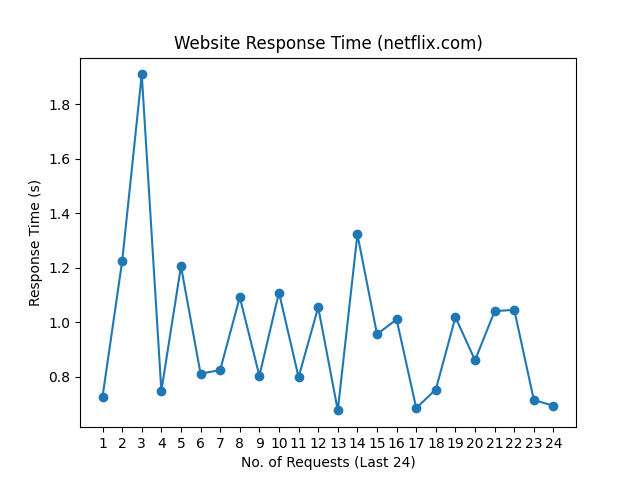
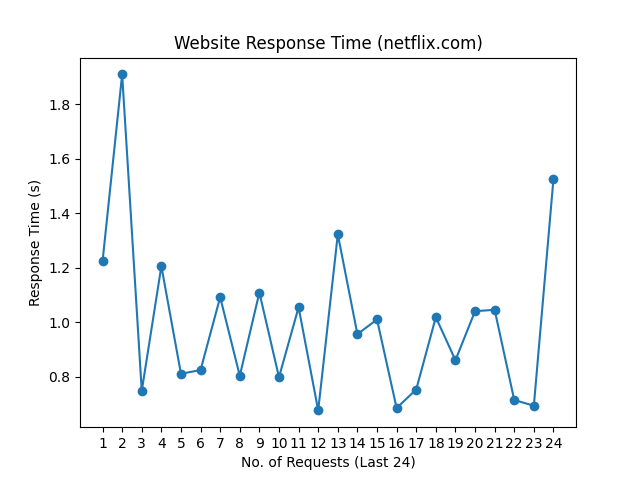
update README.md, history and graph

Changed region(s): [[0.1562, 0.125, 0.875, 0.875], [0.8438, 0.3438, 0.875, 0.6875]]

diff --git a/README.md b/README.md
@@ -1,10 +1,10 @@
 # Web Monitoring
 
-Last Checked: 24/01/2025 08:19
+Last Checked: 25/01/2025 08:19
 
 | Website | Response Time (s) | Status | Avg Uptime (%) |
 |---------|-------------------|--------|----------------|
 | www.thiswebsiteisdown.net | 0 <br> <img src="graph/thiswebsiteisdown.net.png" alt="Graph" width="200" height="200">  | ❌ Down | 0.00 |
-| www.netflix.com | 0.694526 <br> <img src="graph/netflix.com.png" alt="Graph" width="200" height="200">  | ✅ Up | 99.81 |
-| www.google.com | 0.207341 <br> <img src="graph/google.com.png" alt="Graph" width="200" height="200">  | ✅ Up | 100.00 |
-| www.facebook.com | 1.147154 <br> <img src="graph/facebook.com.png" alt="Graph" width="200" height="200">  | ✅ Up | 100.00 |
+| www.netflix.com | 1.525802 <br> <img src="graph/netflix.com.png" alt="Graph" width="200" height="200">  | ✅ Up | 99.81 |
+| www.google.com | 0.267938 <br> <img src="graph/google.com.png" alt="Graph" width="200" height="200">  | ✅ Up | 100.00 |
+| www.facebook.com | 0.235908 <br> <img src="graph/facebook.com.png" alt="Graph" width="200" height="200">  | ✅ Up | 100.00 |
